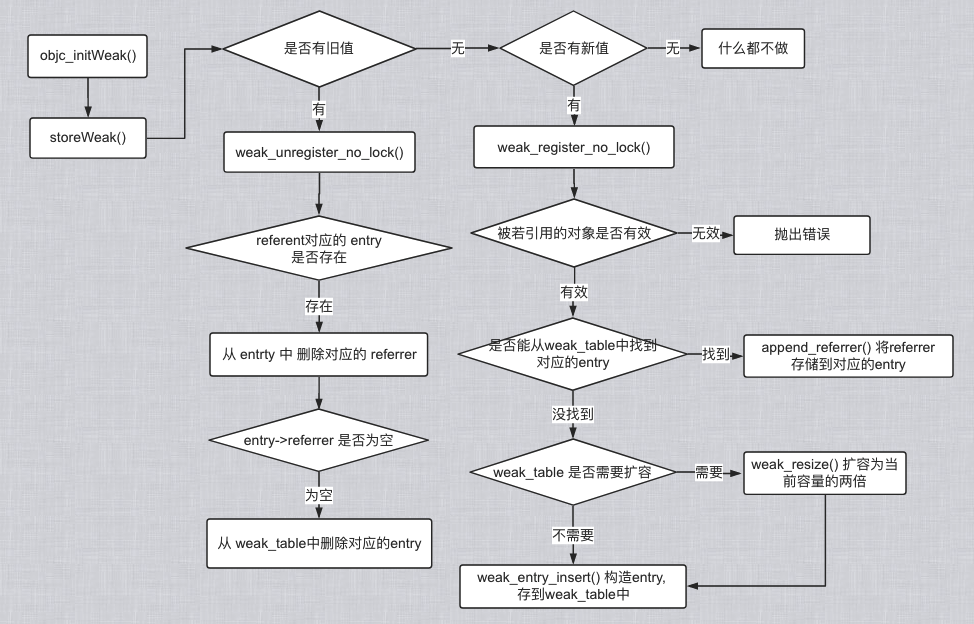
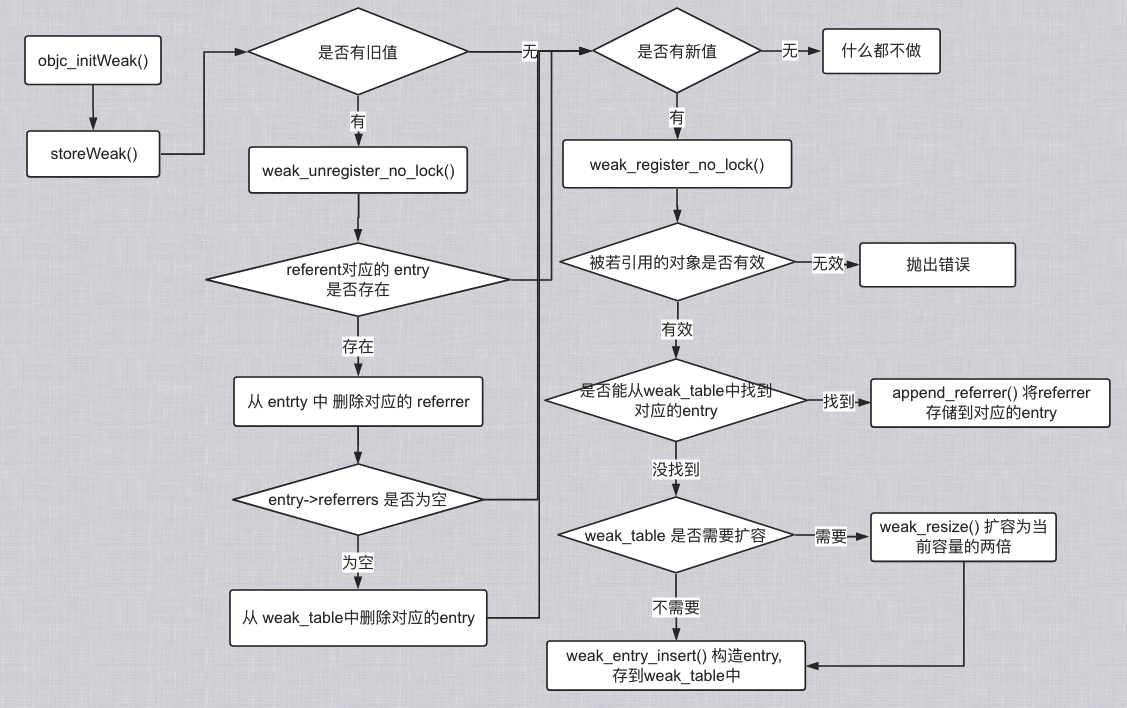
update weak

diff --git a/iOS/内存管理 - weak.md b/iOS/内存管理 - weak.md
@@ -554,7 +554,7 @@ static void weak_entry_insert(weak_table_t *weak_table, weak_entry_t *new_entry)
 
 ### 0x05 总结
 
-![](https://images.gitee.com/uploads/images/2019/0806/182630_83ab4ab5_1355277.png "MemoryManage_image0406.png")
+![](https://images.gitee.com/uploads/images/2019/0807/093007_303d1780_1355277.png "MemoryManage_image0406.png")
 
 
 ## 四、弱引用释放底层实现
